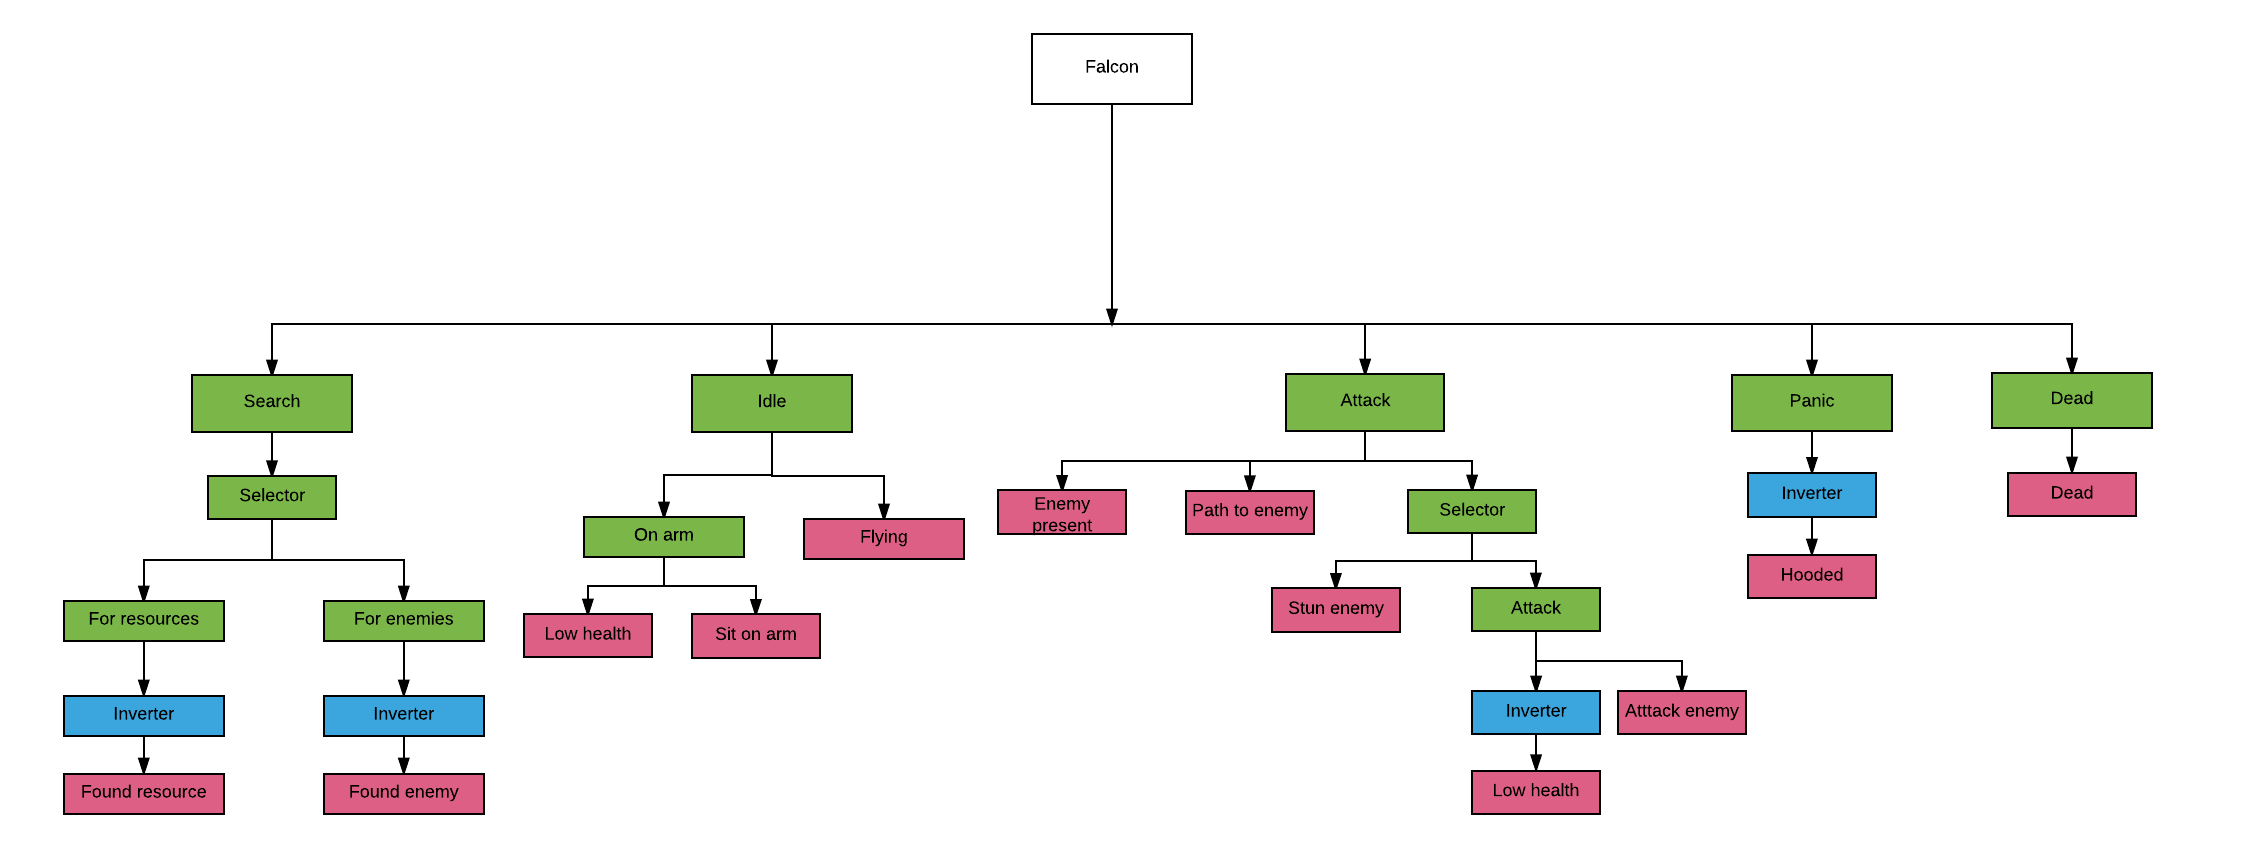
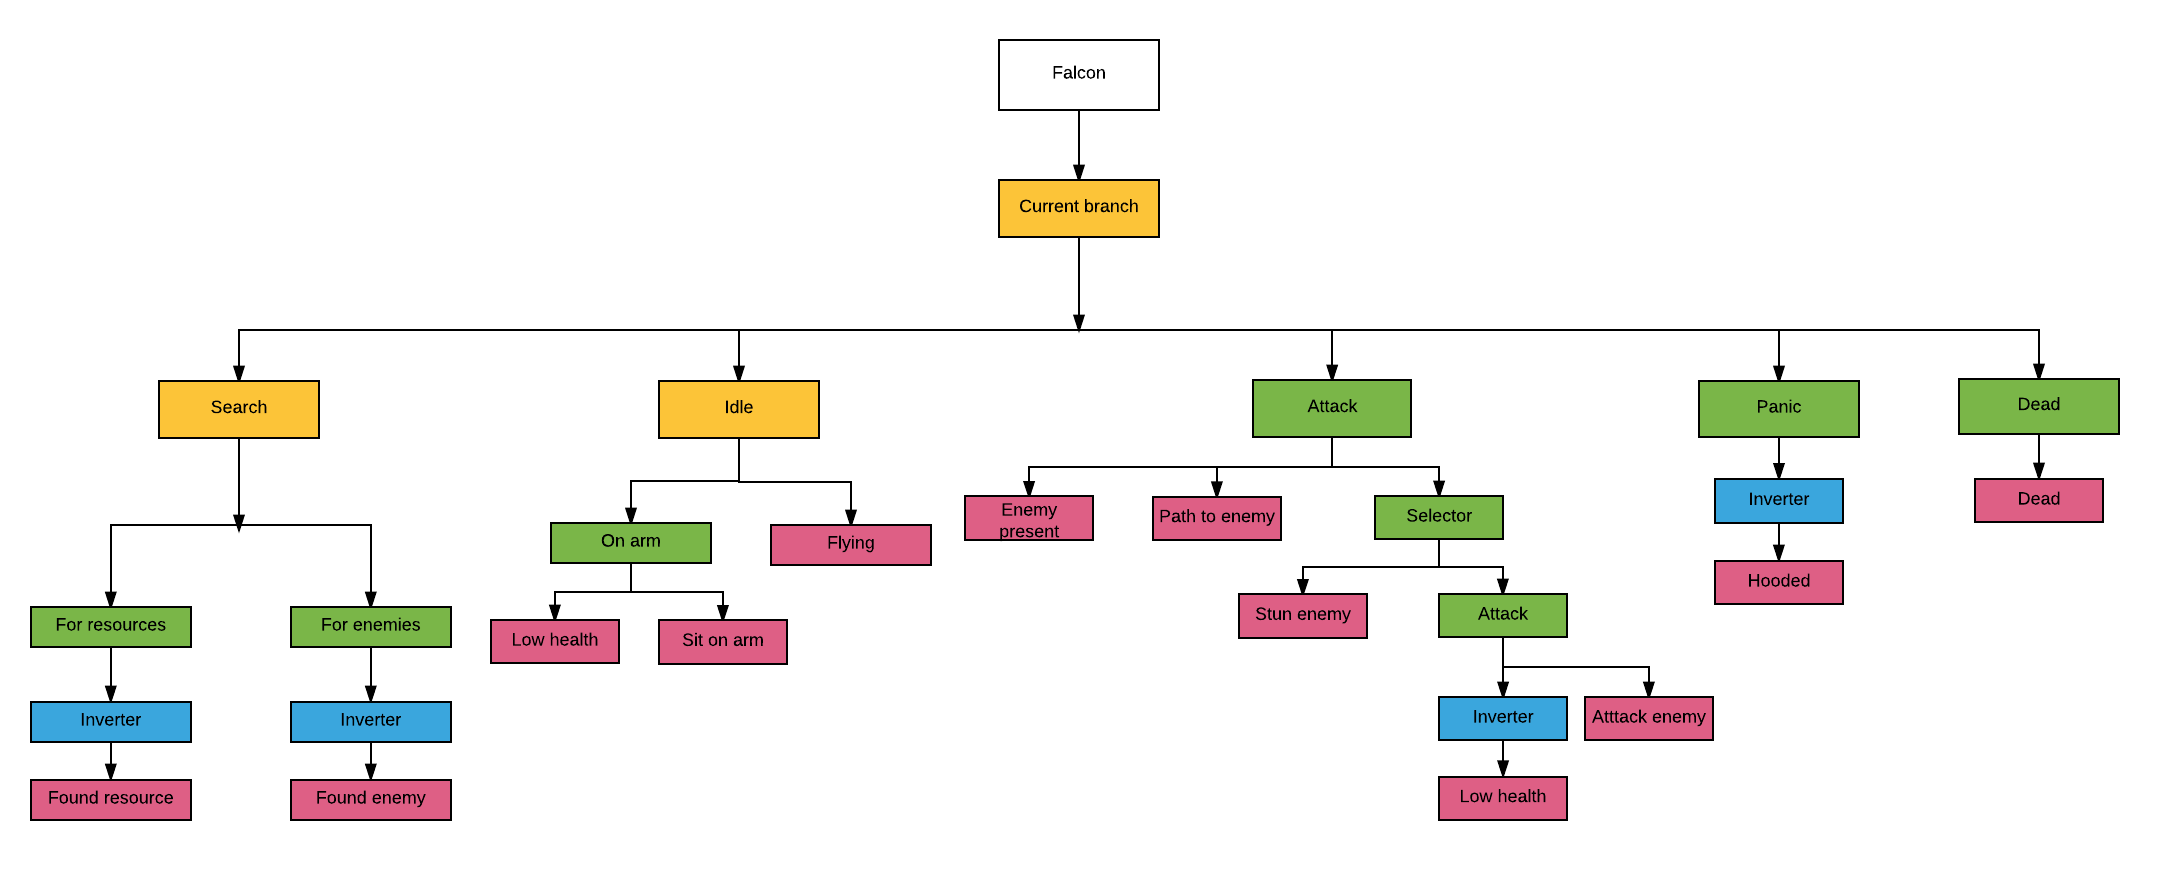
Updates behaviour tree diagram

diff --git a/Proposal/comp230_handout.tex b/Proposal/comp230_handout.tex
@@ -36,7 +36,9 @@ The figure below shows the initial layout of the branches.
 	\caption{ Behaviour tree being used on a falcon companion}
 \end{figure} 
 
-The AI will search for useful objects for the player, search for enemies
+In figure 1 green represents sequence nodes, yellow is for selector nodes, blue for decorator and pink for leaf nodes.
+
+The AI will search for useful objects for the player, search for enemies, attack/stun them and flee when injured.
 
 When used with the navigable terrain generator the AI can use path finding to lead the player in the right direction. 
 
@@ -62,7 +64,8 @@ should be easy to adapt to other animals
 \section{Scope and Commercial Feasibility}
 The scope of the component depends on the number of branches implemented. Once the nodes a working it's relatively easy to adapt and add branches.
 
-There are numerous behaviour tree managing tools on the Unity Asset store where the price varies from being free to \pounds225. Most of the tools come with a GUI so mine would need to be significantly cheaper as it is a lot more difficult to use.
+There are numerous behaviour tree managing tools on the Unity Asset store where the price varies from being free to \pounds225. Most of the tools come with a GUI so mine would need to be significantly cheaper as it is a lot more difficult to use. However most on the asset store are general behaviour tree tools not specific to companion AI.
+Also using a platform such as the Unity Asset store will result in the store taking a cut of the money made from it 
 
 \bibliographystyle{ieeetr}
 \bibliography{comp230}
